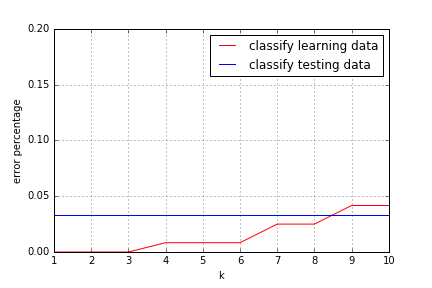
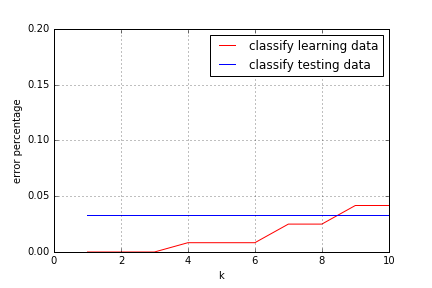
uncomment some plot and print as my final version

diff --git a/Implementation3/RunMain_KB_final.py b/Implementation3/RunMain_KB_final.py
@@ -84,8 +84,7 @@ def buildtree(Data,k=1,feature_pool=[0,1,2,3],scoref=entropy):
                     best_sets = (set1, set2)
                     #print 'featrue %d, threshold %.2f, gain %.5f, N=%d to (%d and %d)' %(feature, threshold, gain, n, len(set1),len(set2))
     if best_gain > 0:
-        #*****************************最后加上去******************
-        #print 'featrue %d, threshold %.1f, gain %.5f, N=%d to (%d and %d)' %(best_feature, best_threshold, best_gain, n, len(best_sets[0]),len(best_sets[1]))
+        print 'featrue %d, threshold %.1f, gain %.5f, N=%d to (%d and %d)' %(best_feature, best_threshold, best_gain, n, len(best_sets[0]),len(best_sets[1]))
         left_child = buildtree(best_sets[0],k,feature_pool,scoref)
         right_child = buildtree(best_sets[1],k,feature_pool,scoref)
         return decisionnode(best_feature,best_threshold,left=left_child,right=right_child)
@@ -224,8 +223,7 @@ def run_part(data_train,data_test,k_max=1,saveDir="./iris-Result/",rate_subset=1
 def get_colour(color):
     '''
     b---blue   c---cyan  g---green    k----black
-    m---magenta r---red  w---white    y----yellow
-'''
+    m---magenta r---red  w---white    y----yellow'''
     color_set = ['r','b','m','g','c','k','y']
     return color_set[color % 7]
 
@@ -262,7 +260,7 @@ def RunMain():
         plt.plot(range(1,k_max+1),0.1*error_train_10[1:], get_colour(colour),label="learning data, L=%d" %(l))
         plt.plot(range(1,k_max+1),0.1*error_test_10[1:], get_colour(colour)+'--',label="testing data, L=%d" %(l))
         colour += 1
-        plt.xlim(1, k_max*1.9)
+        plt.xlim(1, k_max*2)
         plt.ylim(0, 0.2)
         plt.xlabel('k')
         plt.ylabel('error percentage')

diff --git a/Implementation3/Architecture.md b/Implementation3/Architecture.md
@@ -15,3 +15,5 @@ def printtree(tree,indent='')
 import drawtree.py
 
 def classify(test,tree)
+
+def run_part() # can be used in part1 and part2 with different parameters
